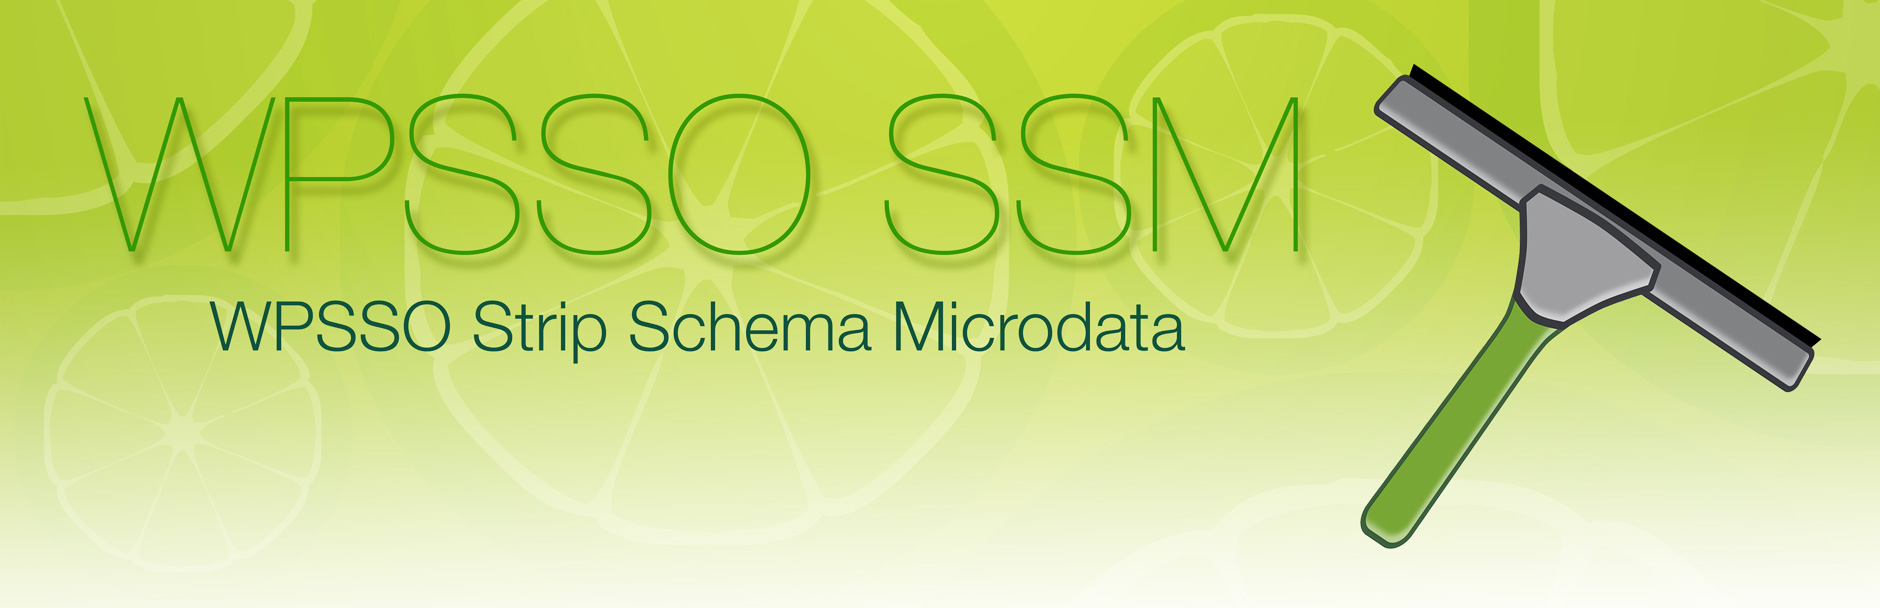
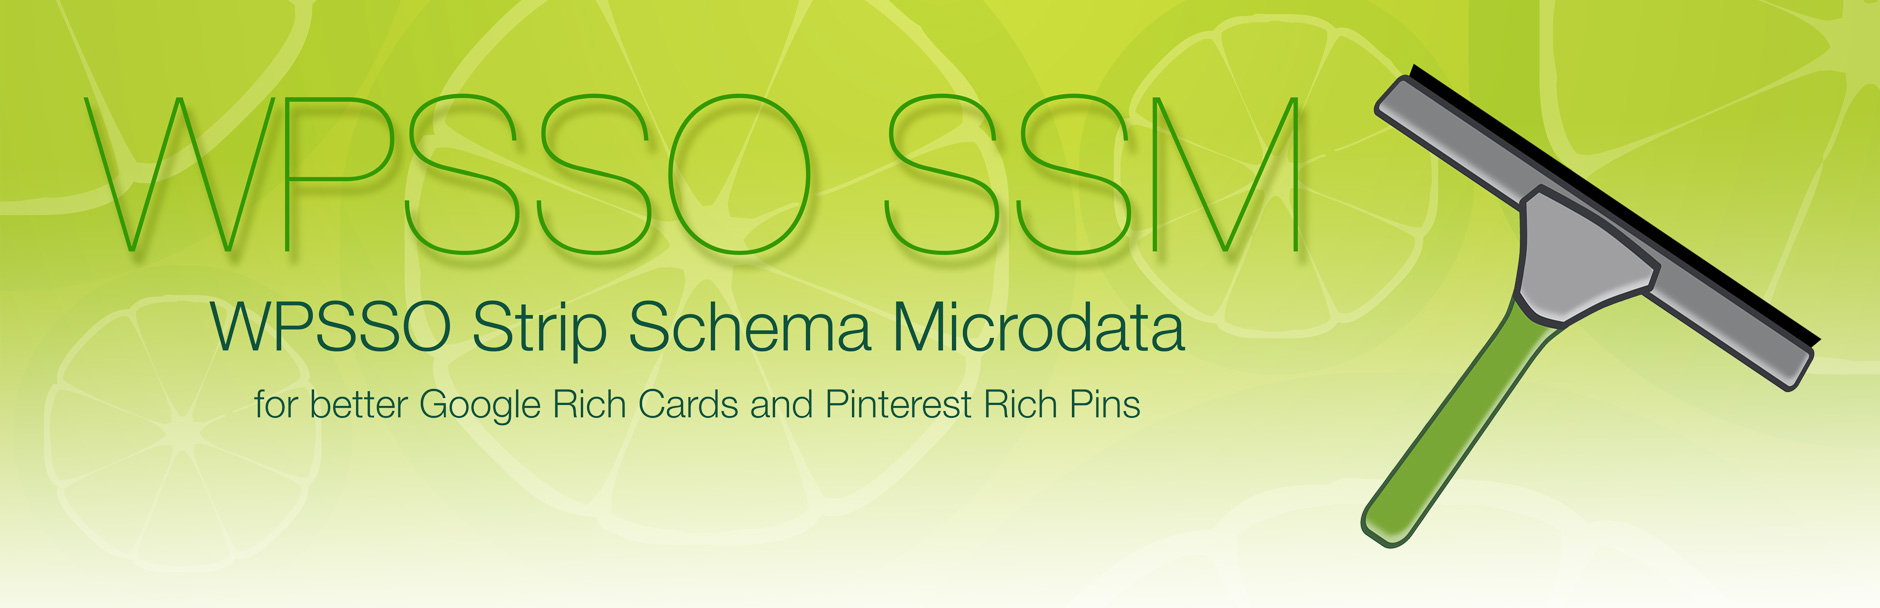
non-essential support files (documentation and assets)

Changed region(s): [[0.1234, 0.625, 0.617, 0.6875]]

diff --git a/index.html b/index.html
@@ -25,7 +25,7 @@
         </ul>
       </header>
       <section>
-<h1>WPSSO Strip Schema Microdata from the WebPage for Better Schema JSON-LD Markup</h1>
+<h1>WPSSO Strip Schema Microdata for better Google Rich Cards and Pinterest Rich Pins</h1>
 
 <table>
 <tr><th align="right" valign="top" nowrap>Plugin Name</th><td>WPSSO Strip Schema Microdata</td></tr>
@@ -42,13 +42,13 @@
 
 <p style="margin:0;"><img class="readme-icon" src="https://surniaulula.github.io/wpsso-strip-schema-microdata/assets/icon-256x256.png"></p>
 
-<p><strong>Want to remove incorrect / incomplete Schema Microdata from your theme templates?</strong></p>
+<p><strong>Want to remove incorrect or incomplete Schema Microdata from your webpages and/or theme templates?</strong></p>
 
 <p><strong>Want to remove incorrect Microdata added by 3rd party plugins from your content?</strong></p>
 
 <p><strong>Want to remove duplicate social or SEO meta tags from the webpage head section?</strong></p>
 
-<p><strong>Is Pinterest picking up duplicate / incorrect Schema from your theme templates?</strong></p>
+<p><strong>Is Pinterest picking up duplicate or incorrect Schema from your theme templates?</strong></p>
 
 <p>The WPSSO Strip Schema Microdata (aka WPSSO SSM) add-on removes Schema Microdata markup from the webpage body section, leaving Schema JSON-LD markup and Schema meta tags in the head section untouched. A Strip Microdata settings page also allows you to enable the removal of duplicate / conflicting meta tags from the webpage head section.</p>
 
